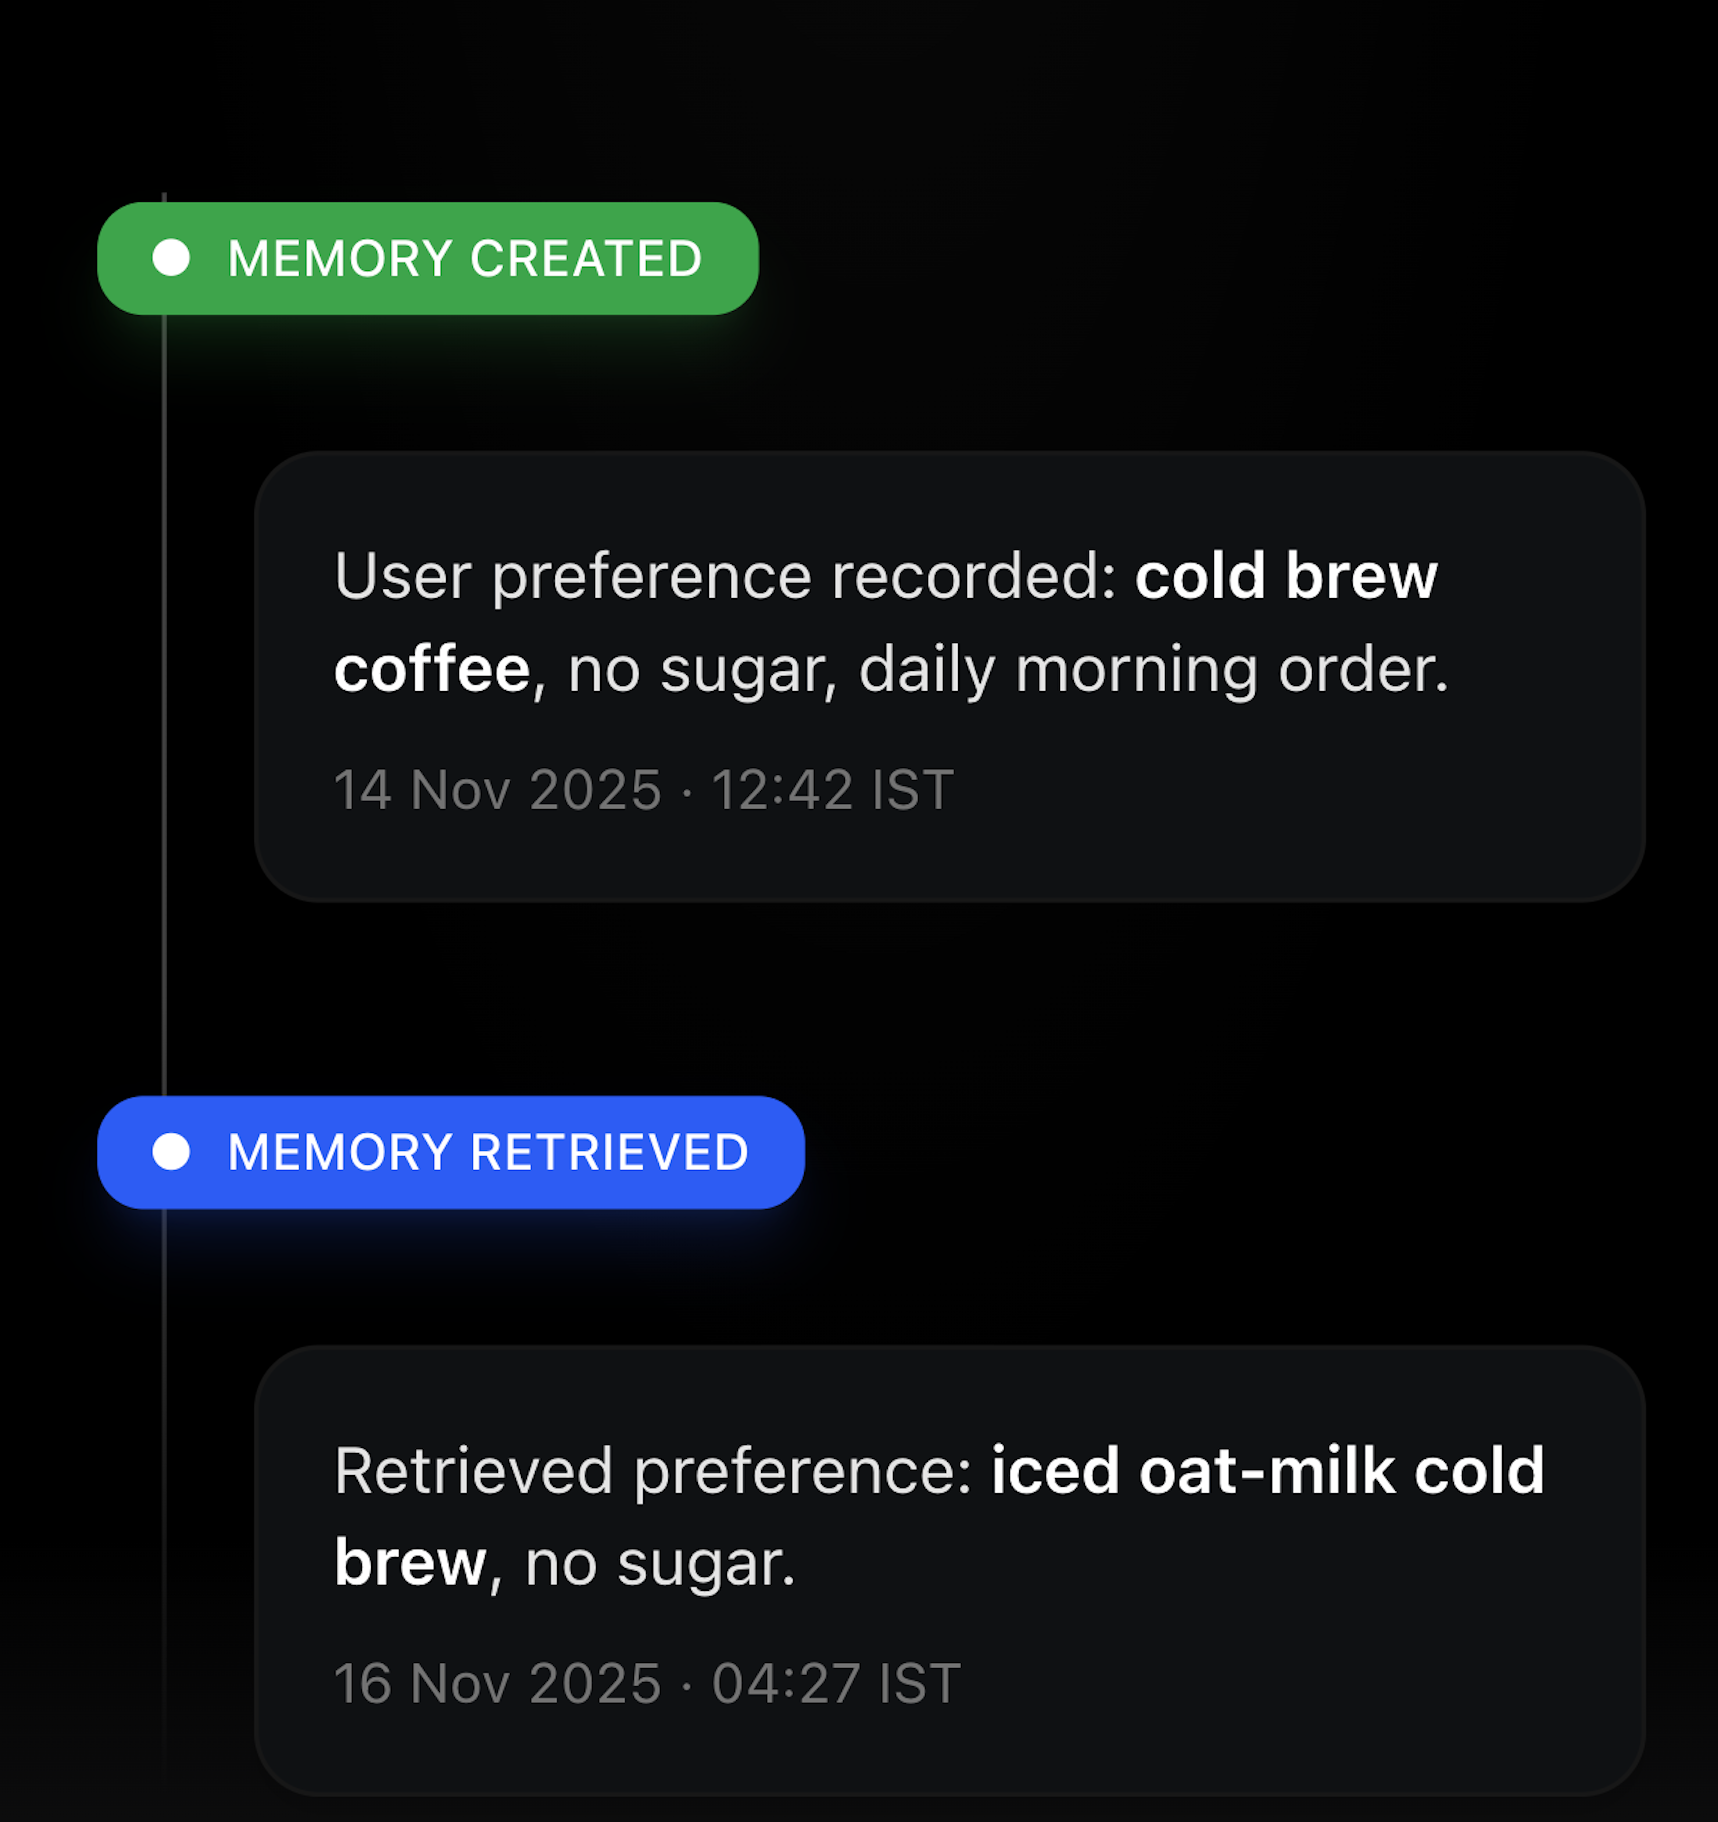
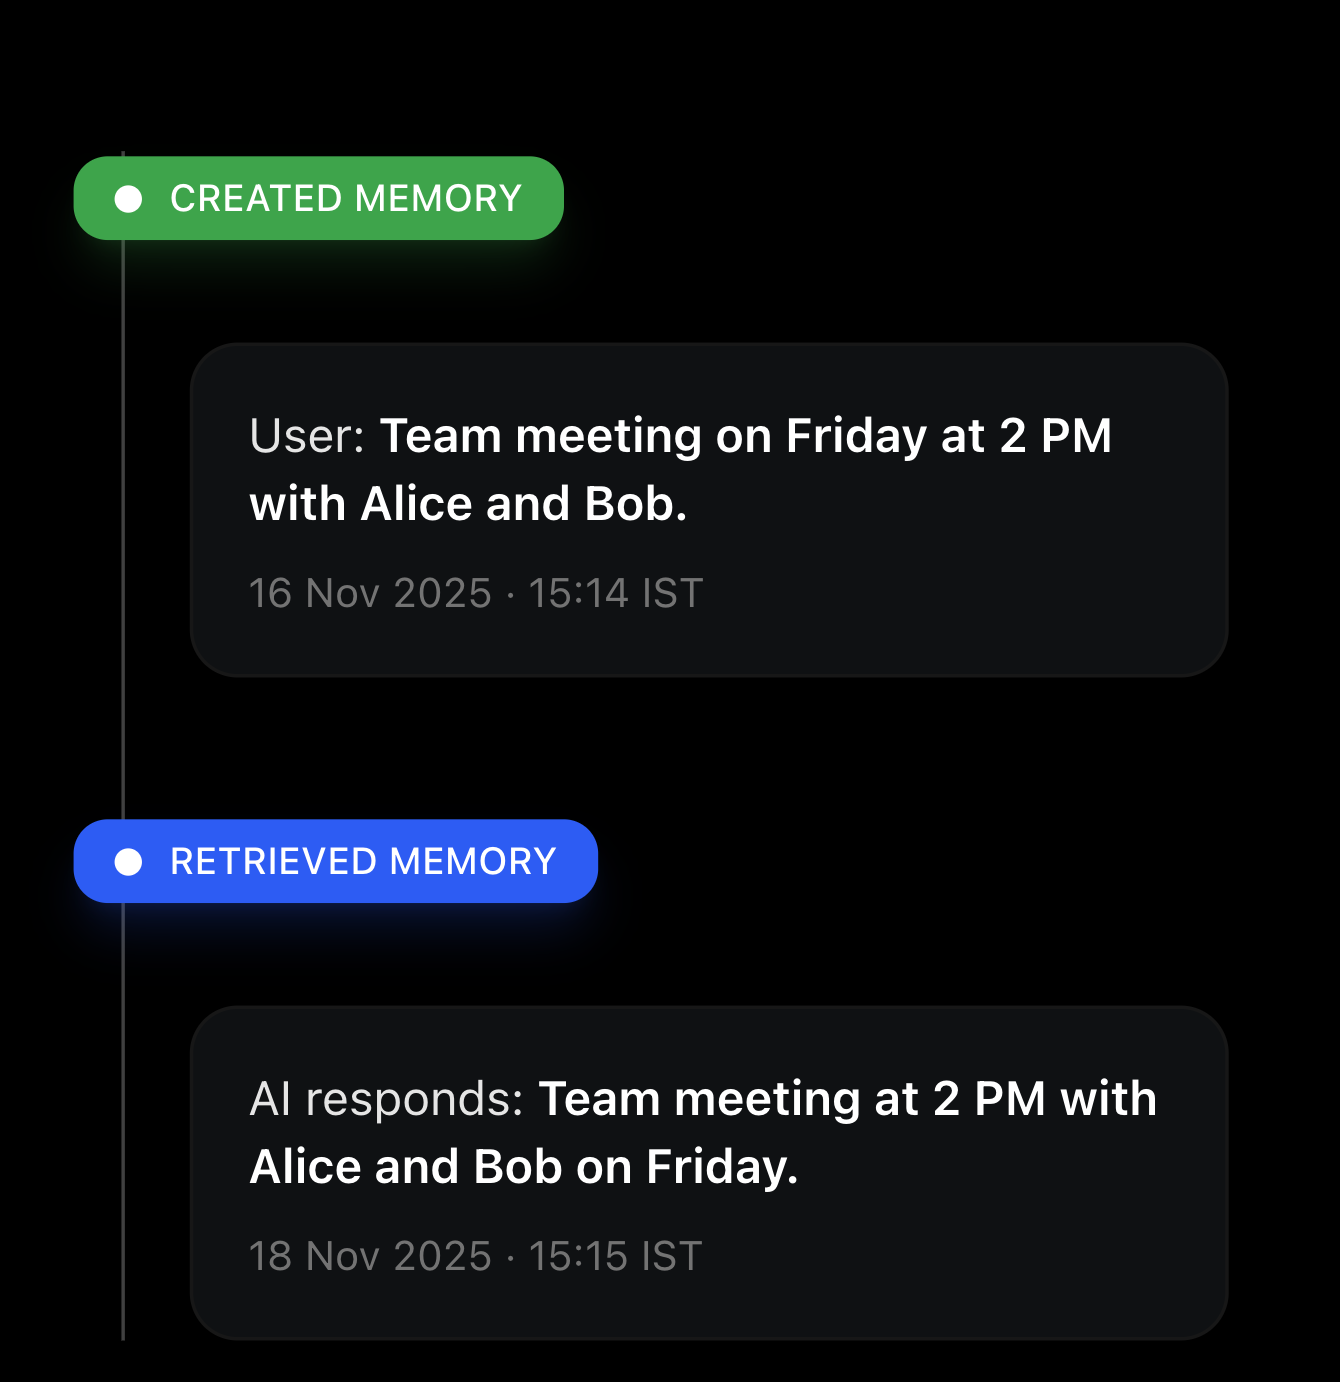
update image

Changed region(s): [[0.1836, 0.28, 0.8567, 0.4667], [0.0612, 0.0933, 0.4896, 0.7779], [0.1836, 0.7779, 0.9179, 0.9334]]

diff --git a/apps/web/components/features.tsx b/apps/web/components/features.tsx
@@ -1,0 +1,67 @@
+"use client"
+
+import React from "react"
+
+export default function Features({ className = "" }: { className?: string }) {
+  return (
+    <div
+      className={`relative w-full max-w-sm mx-auto rounded-3xl bg-black p-6 overflow-hidden shadow-2xl ${className}`}
+    >
+      {/* Header */}
+      <div className="relative z-10">
+        <h2 className="text-3xl font-bold text-white leading-tight">
+          Never Lose User Context Again
+        </h2>
+        <p className="mt-3 text-sm text-neutral-400 leading-relaxed">
+          Azen retrieves preferences, behaviors, and history on demand.
+        </p>
+      </div>
+
+      {/* Timeline */}
+      <div className="relative z-10 mt-10 pl-8">
+        {/* Vertical line */}
+        <div className="absolute left-3 top-0 bottom-0 w-px bg-neutral-700" />
+
+        {/* Created Memory Label */}
+        <div className="relative mb-6 h-8">
+          <div className="absolute left-[-34px] top-0">
+            <span className="inline-flex items-center gap-2 rounded-lg bg-green-600 px-3 py-1 text-[11px] font-medium text-white shadow-lg shadow-green-600/20">
+              <span className="w-2 h-2 rounded-full bg-white" />
+              CREATED MEMORY
+            </span>
+          </div>
+        </div>
+
+        {/* Created Memory Block */}
+        <div className="relative mb-10">
+          <div className="rounded-xl bg-[#0f1113] border border-neutral-900 p-4 shadow-md backdrop-blur-sm">
+            <p className="text-sm text-neutral-200">
+              User: <span className="text-white font-semibold">Team meeting on Friday at 2 PM with Alice and Bob.</span>
+            </p>
+            <p className="mt-2 text-xs text-neutral-500">16 Nov 2025 · 15:14 IST</p>
+          </div>
+        </div>
+
+        {/* Retrieved Memory Label */}
+        <div className="relative mb-24">
+          <div className="absolute left-[-34px] top-0">
+            <span className="inline-flex items-center gap-2 rounded-lg bg-blue-600 px-3 py-1 text-[11px] font-medium text-white shadow-lg shadow-blue-600/20">
+              <span className="w-2 h-2 rounded-full bg-white" />
+              RETRIEVED MEMORY
+            </span>
+          </div>
+        </div>
+
+        {/* Retrieved Memory Block */}
+        <div className="relative">
+          <div className="rounded-xl bg-[#0f1113] border border-neutral-900 p-4 shadow-md backdrop-blur-sm">
+            <p className="text-sm text-neutral-200">
+              AI responds: <span className="text-white font-semibold">Team meeting at 2 PM with Alice and Bob on Friday.</span>
+            </p>
+            <p className="mt-2 text-xs text-neutral-500">18 Nov 2025 · 15:15 IST</p>
+          </div>
+        </div>
+      </div>
+    </div>
+  )
+}

diff --git a/apps/web/app/page.tsx b/apps/web/app/page.tsx
@@ -6,12 +6,14 @@ import CTA from "@/components/cta"
 import DashboardPreview from "@/components/dashboardPreview"
 import UseCases from "@/components/usecases"
 import ApiShowcase from "@/components/ApiShowcase"
+import Features from "@/components/features"
 
 export default function Page() {
   return (
     <main className="min-h-screen bg-black">
       <Navigation />
       <Hero />
+      <Features />
       <Cards />
       <ApiShowcase />
       <UseCases />
